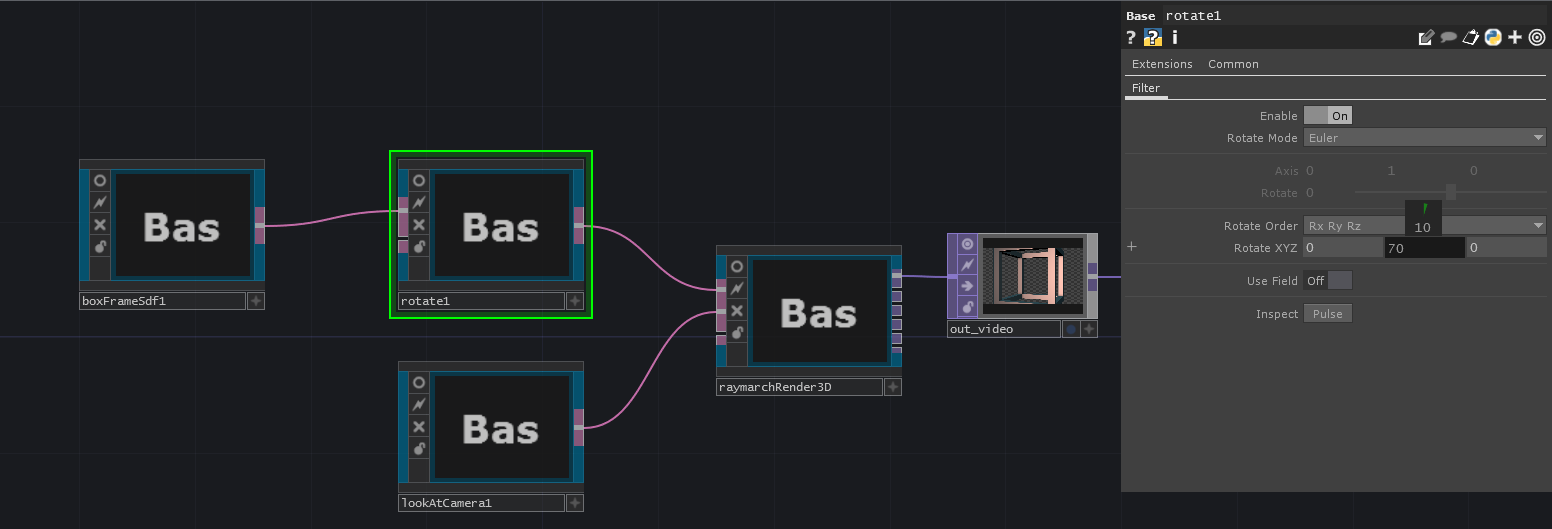
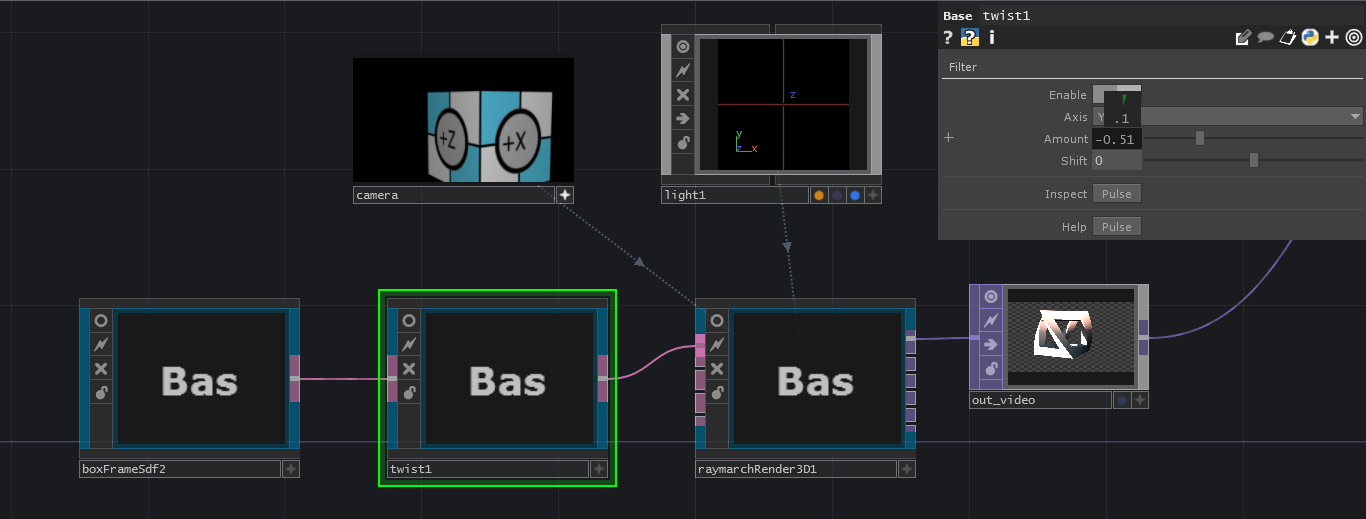
update getting  started guide

diff --git a/docs/_guide/getting-started.md b/docs/_guide/getting-started.md
@@ -22,7 +22,12 @@ To create your first ROP, use the keyboard shortcut `alt + r` to open up the edi
 
 1. Choose a `boxFrameSdf`, and a new COMP will be created in the network editor.
 1. Create a `raymarchRender3d` and connect the output of your `boxFrameSdf` to the input of the `raymarchRender3d`.
-1. Create a `lookAtCamera` and connect it to the second input ("camera_definition_in") on the `raymarchRender3d`.
+1. From the TD Palette, under "Tools" drag a `camera` component into the network.
+    ![TD Palette Camera](/raytk/assets/images/guide/intro-tdPaletteCamera.png)
+1. Select the new camera and drag it into the `raymarchRender3d` and choose "Parm: Camera".
+    ![Drag camera onto render](/raytk/assets/images/guide/intro-dropCameraOntoRender.png)
+    :information_source: The camera by default is aimed in slightly the wrong direction. To correct it, open the viewer of the camera, left click, and drag a bit to the left.
+1. Create a regular TD light, drag it onto the `raymarchRender3d` and choose "Parm: Light".
 1. Connect a `Null TOP` to the first output of `raymarchRender3d`.
 1. Play around with the parameters of the `boxFrameSdf`.
 
@@ -36,15 +41,16 @@ The `boxFrameSdf` is an `SDF` (signed distance function) operator, which is how 
 
 Now that you have a complete render setup, you can start to add to and change your scene.
 
-1. Add a `rotate` between the `boxFrameSdf` and the `raymarchRender3d`.
-2. Adjust the "Rotate XYZ" parameters and watch the box rotate in the output.
+1. Add a `twist` between the `boxFrameSdf` and the `raymarchRender3d`.
+2. Change the "Axis" to "Y".
+3. Adjust the "Amount" parameter and watch the box twist in the output.
 
 ![Basic RayTK Network](/raytk/assets/images/guide/intro-basicNetwork2.png)
 
 You've just created your first "filter" ROP! It modifies the behavior of another ROP.
 
-3. Add a `basicMat` between the `rotate` and the `raymarchRender3d`.
-4. Try out different color settings.
+4. Add a `basicMat` between the `twist` and the `raymarchRender3d`.
+5. Try out different color settings.
 
 ![Basic RayTK Network](/raytk/assets/images/guide/intro-basicNetwork3.png)
 
